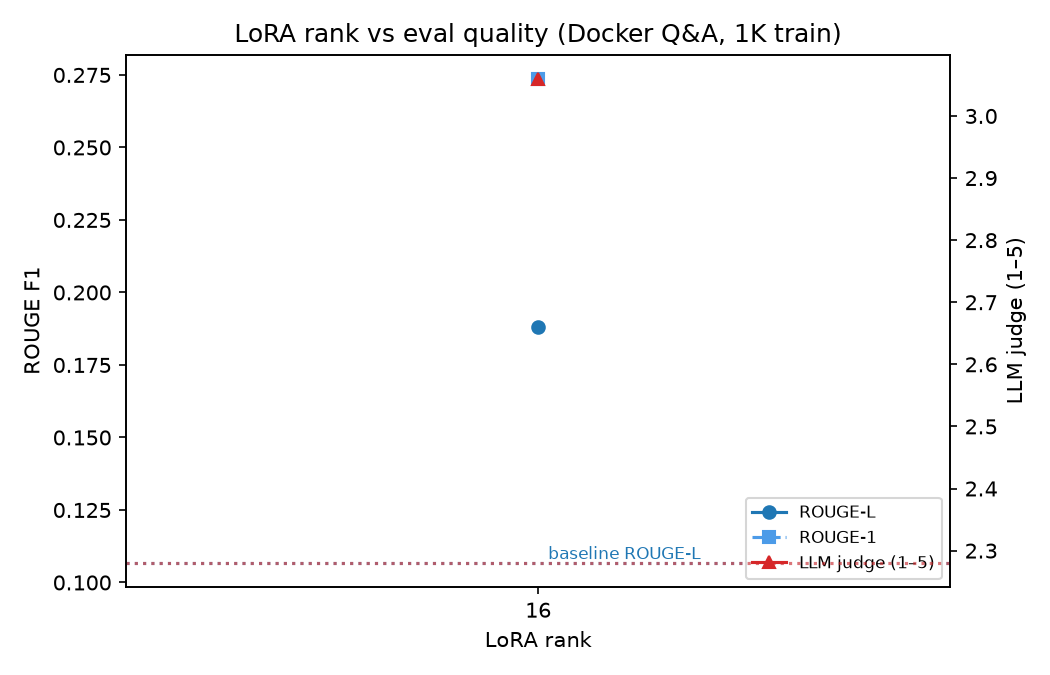
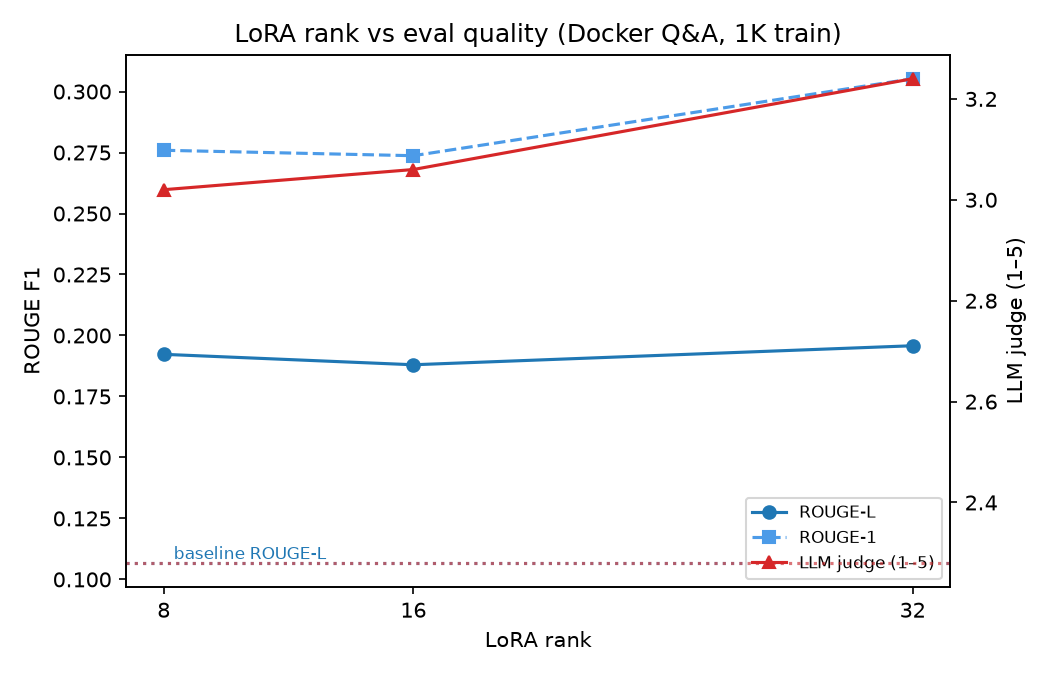
task7 done

diff --git a/README.md b/README.md
@@ -25,7 +25,7 @@ Scope cuts are listed in section [12. What was cut and why](#12-what-was-cut-and
 | Training set | ✅ Built — `data/train/train_1k.jsonl` (1,000 SO [docker] Q&A, score 52→2509) |
 | Baseline run | ✅ Done — rouge1=0.132, rougeL=0.107, judge=2.28 (see §6) |
 | Fine-tune r=16 | ✅ Done + evaluated — rouge1=0.274, rougeL=0.188, judge=3.06 (see §6) |
-| Fine-tune r=8, r=32 (ablation) | ⏳ In progress (Sunday) |
+| Fine-tune r=8, r=32 (ablation) | ✅ Done + evaluated — r=8 judge 3.02, r=32 judge 3.24 (best). See §6 |
 | Failure analysis | ⏳ Sunday |
 
 ---
@@ -59,8 +59,8 @@ Time estimates assume one person, Colab T4 free tier, and zero idle time.
 | Block | Status | Task |
 |-------|--------|------|
 | Sun AM-1 | ✅ | Eval the Sat fine-tuned adapter (r=16) on the locked eval set. rouge1=0.274, rougeL=0.188, judge=3.06. |
-| Sun AM-2 | ⏳ NEXT | **Single ablation axis: LoRA rank.** Train r=8 and r=32 (keeping data, lr, epochs constant). Eval both. |
-| Sun PM-1 | ⏳ | Compile `results/ablation_table.csv` and a single matplotlib chart (rank vs ROUGE-L). |
+| Sun AM-2 | ✅ | **Single ablation axis: LoRA rank.** Trained r=8 and r=32 (data, lr, epochs constant). Both evaluated. |
+| Sun PM-1 | ✅ | Compiled `results/ablation_table.csv` + `results/charts/rank_vs_rouge.png` (rank vs ROUGE + judge). |
 | Sun PM-2 | ⏳ | **Failure analysis:** pick 5 fine-tuned-model failures, categorize (hallucination / refusal / formatting / OOD), write `results/failure_analysis.md`. |
 | Sun PM-3 | ⏳ | Update the results table in this README. Make the W&B dashboard public. Push to GitHub. |
 
@@ -179,9 +179,9 @@ Two evaluation dimensions for the weekend version, both in `src/eval/runner.py`:
 | Model                       | ROUGE-1 | ROUGE-L | LLM-Judge (1–5) | Notes                          |
 |-----------------------------|---------|---------|------------------|--------------------------------|
 | Mistral-7B-v0.3 base        | 0.132   | 0.107   | 2.28             | Zero-shot baseline (50 q, T4)  |
-| + LoRA r=8, 1K data         | TBD     | TBD     | TBD              | Lower rank (Sunday)            |
-| + LoRA r=16, 1K data        | **0.274** | **0.188** | **3.06**       | Default — **+107% R-1, +0.78 judge** vs base |
-| + LoRA r=32, 1K data        | TBD     | TBD     | TBD              | Higher rank (Sunday)           |
+| + LoRA r=8, 1K data         | 0.276   | 0.192   | 3.02             | Lower rank — matches r=16 at ½ the adapter params |
+| + LoRA r=16, 1K data        | 0.274   | 0.188   | 3.06             | Default — **+107% R-1, +0.78 judge** vs base |
+| + LoRA r=32, 1K data        | **0.305** | **0.196** | **3.24**       | Higher rank — **best on every metric** |
 
 **r=16 vs baseline:** ROUGE-1 0.132 → 0.274 (+107%), ROUGE-L 0.107 → 0.188 (+76%),
 judge 2.28 → 3.06 (+0.78 / 5). Fine-tuning measurably closed the domain gap. By
@@ -189,6 +189,16 @@ difficulty the lift is strongest on *easy* questions (judge 3.72) and thinnest o
 *hard* (judge 2.50); by category, *commands* leads (judge 3.73) and *volumes* lags
 (judge 2.25) — useful signal for Sunday's failure analysis. Full breakdown in
 `results/runs/r16/results.json`.
+
+**Rank ablation (r=8 / 16 / 32, all else fixed — same 1K data, lr, 3 epochs,
+alpha==rank, seed 42):** every adapter beats the baseline by a wide margin, and
+quality rises with rank — **r=32 wins on all three metrics** (R-1 0.305, R-L 0.196,
+judge 3.24). The jump from r=8→r=16 is essentially flat (judge 3.02 → 3.06), while
+r=16→r=32 is the real gain (+0.18 judge, +0.032 R-1), tracking the falling training
+loss (1.43 → 1.34 → 1.24). Takeaway: for this Docker Q&A task, **r=8 already captures
+most of the lift at half the trainable params of r=16, but r=32 is worth the extra
+capacity if quality is the priority.** Chart: `results/charts/rank_vs_rouge.png`;
+table: `results/ablation_table.csv`.
 
 ### r=16 training run (Saturday PM-3)
 
@@ -249,7 +259,7 @@ halves generation time.
 - [x] First fine-tuned LoRA adapter (r=16) — eval still pending
 - [ ] Two more fine-tuned LoRA adapters (r=8, r=32)
 - [ ] All three adapters scored against `eval.jsonl`
-- [ ] `results/ablation_table.csv` + `rank_vs_rouge.png`
+- [x] `results/ablation_table.csv` + `rank_vs_rouge.png`
 - [ ] `results/failure_analysis.md` (5 categorized failures)
 - [ ] Public W&B dashboard
 - [ ] (Stretch) Eval dataset + best adapter pushed to HuggingFace Hub